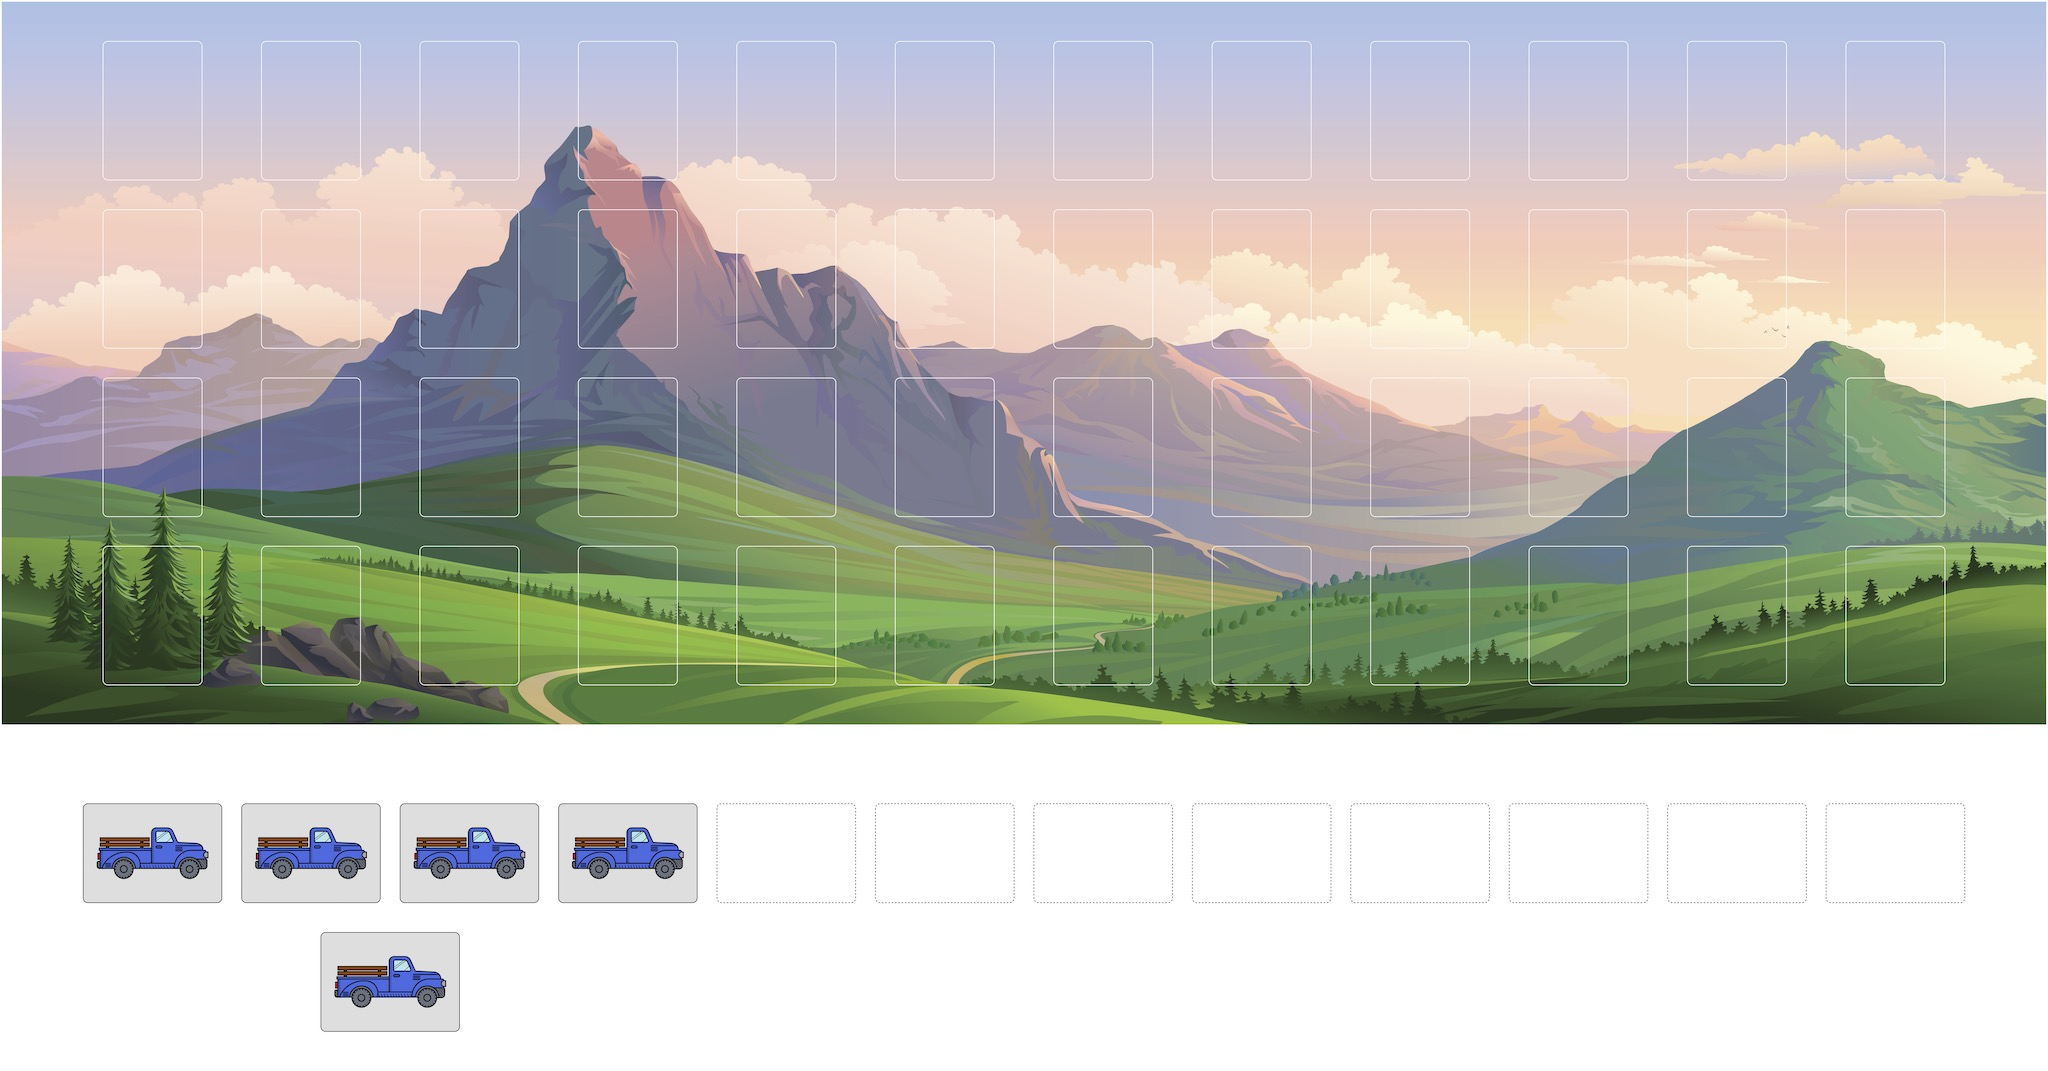
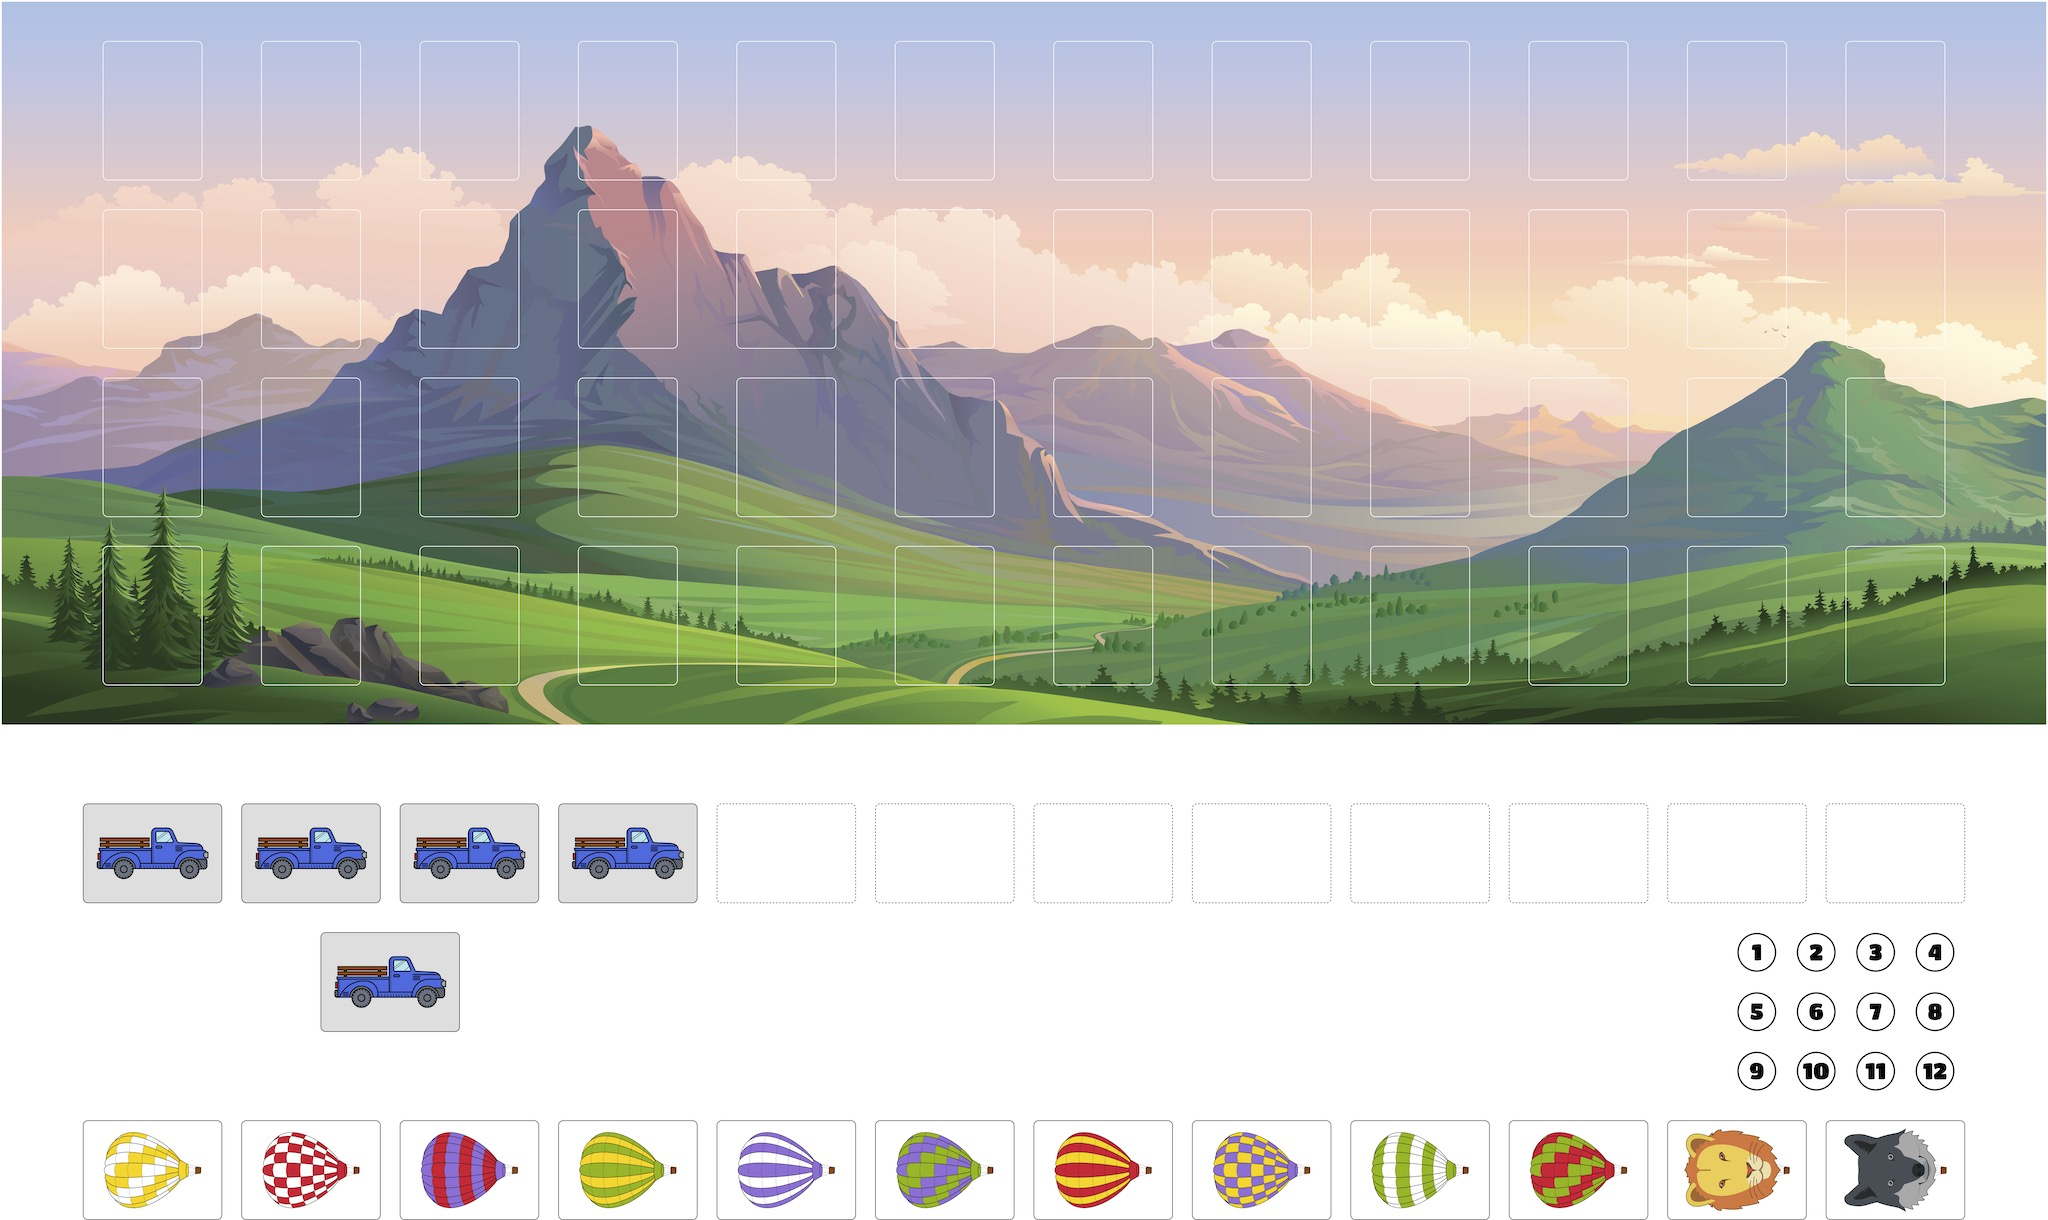
Update set up diagram.

diff --git a/set_up_diagram.tex b/set_up_diagram.tex
@@ -4,7 +4,7 @@
 \begin{document}
 
 \begin{tikzpicture}[x=1in, y=1in]
-\path[fill=white] (-46.25, -11.5) rectangle (2.25, 15.5);
+\path[fill=white] (-47.25, -11.5) rectangle (3.25, 15.5);
 
 %\path[draw, ultra thick, rounded corners=3mm, fill=YellowGreen!50] (-46.25, -2.75) rectangle (2.25, 15.5);
 
@@ -35,6 +35,12 @@
 %	\node[ballooncard, rotate=90] at (\x, -9.25) {\includegraphics[height=3.25in]{Images/grid_py.png}};
 \node[truckcard] at (-38, -9.25) {\includegraphics[width=3.25in]{Images/truck_b.png}};	
 %	\node[inner sep=1.5in] at (-22, 21) {{\setmainfont[Scale=12.0]{Oi}\Huge Aloft}};
+
+\foreach \i/\j in {-44/diag_wy.png, -40/grid_rw.png, -36/horiz_pr.png, -32/vert_gy.png, -28/vert_pw.png, -24/diag_gp.png,            -20/vert_ry.png, -16/grid_py.png, -12/horiz_gw.png, -8/diag_gr.png, -4/lion.png, 0/wolf.png}
+\node[cardposition, rotate=90] at (\i, -14) {\includegraphics[height=3.25in]{Images/\j}};
+
+\foreach \i/\j/\k in {-3.5/-8.5/scoring_token_1.png, -2/-8.5/scoring_token_2.png, -0.5/-8.5/scoring_token_3.png,1/-8.5/scoring_token_4.png, -3.5/-10/scoring_token_5.png, -2/-10/scoring_token_6.png, -0.5/-10/scoring_token_7.png,1/-10/scoring_token_8.png, -3.5/-11.5/scoring_token_9.png, -2/-11.5/scoring_token_10.png, -0.5/-11.5/scoring_token_11.png,1/-11.5/scoring_token_12.png}
+\node at (\i,\j) {\includegraphics[width=25mm]{Images/\k}};
 
 \end{tikzpicture}
 

diff --git a/README.md b/README.md
@@ -15,14 +15,15 @@ During the game, you will launch a flight of hot-air balloons. You can play eith
   - 5 colour cards
   - 1 game board
 
-The number of cards of each type that you will use in your game depends on the how many people are playing. See the table below for details. Notice that you will always use all of the regular balloon cards but, unless you are playing a five-player game, you will not use all of the special shape cards, truck cards, or colour cards.
+The number of special shape cards, truck cards, and scoring tokens that you will use in your game depends on how many people are playing. See the table below for details. Notice that you will always use all of the regular balloon cards but, unless you are playing a five-player game, you will not use all of the special shape cards, truck cards, or scoring tokens. If you are playing with less than five players, you should use the scoring tokens numbered 1-12.
 
 | Player Count | 1 - 4 | 5 |
 | ----------: | ---: | ---: |
 | Regular Balloon Cards | 10 | 10 |
 | Special Shape Cards | 2 | 3 |
 | Truck Cards | 5 | 6 |
-| Colour Cards | 5 | 5 | 
+| Colour Cards | 5 | 5 |
+| Scoring Tokens | 12 | 12 | 
 
 
 ## Set Up
